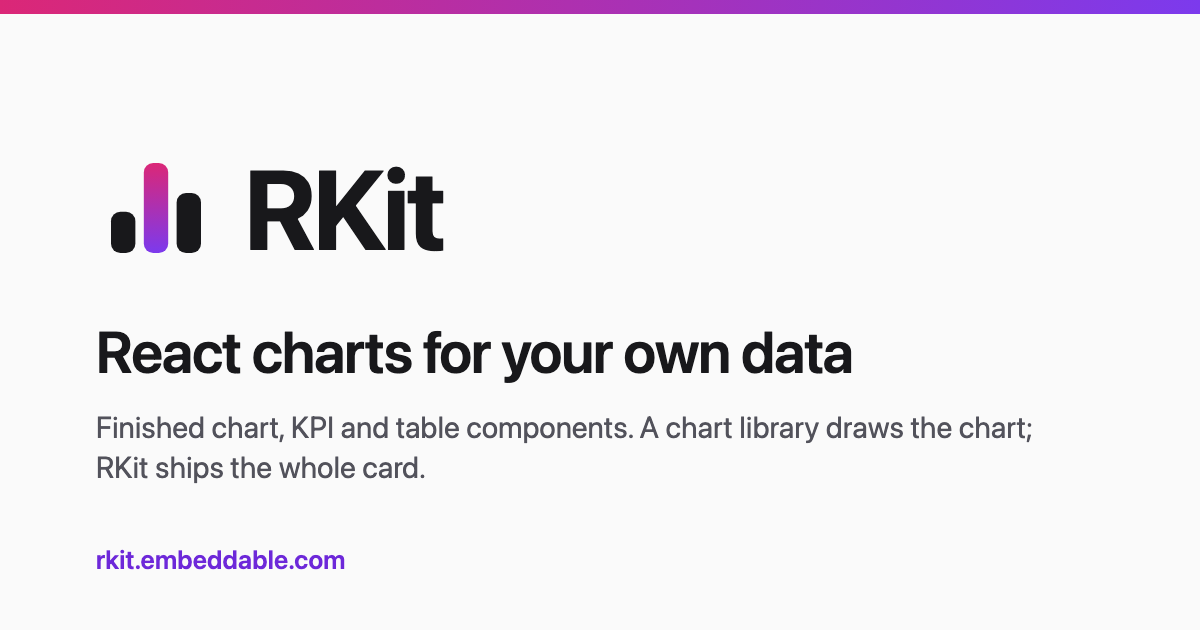
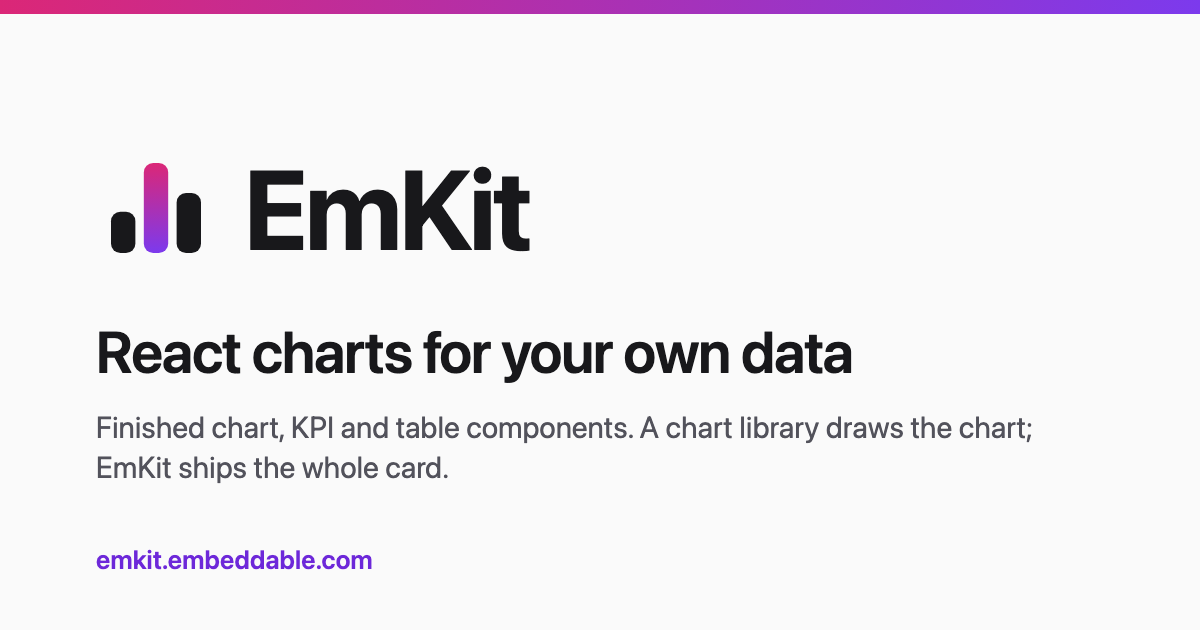
Rename RKit to EmKit (npm package em-kit)
The name is EmKit, the package em-kit and the site emkit.embeddable.com.
"em" is the prefix of every theme variable (--em-*) and short for
Embeddable. RKit is dropped because rkit on npm is someone else's React
UI kit.

- BRAND in site/config.ts, package.json, the provider's error message,
  storage keys, the share image (its source is scripts/og-image.html)
- README, ROADMAP, PLAN, UPSTREAM and the site standards; PROGRESS.md
  keeps the old name in rows that record what was true at the time

Changed region(s): [[0.2158, 0.2714, 0.4625, 0.4222], [0.0617, 0.7238, 0.37, 0.7841], [0.0617, 0.8746, 0.3083, 0.9048]]

diff --git a/scripts/og-image.html b/scripts/og-image.html
@@ -1,0 +1,23 @@
+<!doctype html>
+<!-- The source of site/public/og.png (1200 x 630), the image shown when a link to the site is shared.
+     To remake it: open this file in headless Chrome with --window-size=1200,630 --screenshot=site/public/og.png -->
+<html><head><meta charset="utf-8"><style>
+  html,body{margin:0;width:1200px;height:630px;overflow:hidden}
+  body{background:#fafafa;font-family:-apple-system,BlinkMacSystemFont,"Helvetica Neue",Arial,sans-serif;color:#18181b;display:flex;flex-direction:column;justify-content:center;padding:0 96px;box-sizing:border-box;position:relative}
+  .brand{display:flex;align-items:center;gap:28px}
+  .brand svg{width:120px;height:120px}
+  .name{font-size:112px;font-weight:700;letter-spacing:-3px}
+  .title{margin-top:44px;font-size:58px;font-weight:600;letter-spacing:-1px;line-height:1.15;max-width:960px}
+  .line{margin-top:22px;font-size:30px;color:#52525b;max-width:960px;line-height:1.35}
+  .url{position:absolute;left:96px;bottom:56px;font-size:26px;color:#6d28d9;font-weight:600}
+  .bar{position:absolute;left:0;top:0;width:100%;height:14px;background:linear-gradient(90deg,#db2777,#7c3aed)}
+</style></head><body>
+<div class="bar"></div>
+<div class="brand">
+<svg viewBox="0 0 32 32"><defs><linearGradient id="g" x1="0" y1="0" x2="0" y2="1"><stop offset="0" stop-color="#db2777"/><stop offset="1" stop-color="#7c3aed"/></linearGradient></defs>
+<rect fill="#18181b" x="4" y="17" width="6.5" height="11" rx="2.5"/><rect fill="url(#g)" x="12.75" y="4" width="6.5" height="24" rx="2.5"/><rect fill="#18181b" x="21.5" y="12" width="6.5" height="16" rx="2.5"/></svg>
+<div class="name">EmKit</div></div>
+<div class="title">React charts for your own data</div>
+<div class="line">Finished chart, KPI and table components. A chart library draws the chart; EmKit ships the whole card.</div>
+<div class="url">emkit.embeddable.com</div>
+</body></html>

diff --git a/site/index.html b/site/index.html
@@ -3,18 +3,18 @@
   <head>
     <meta charset="UTF-8" />
     <meta name="viewport" content="width=device-width, initial-scale=1.0" />
-    <meta name="description" content="Finished React chart components for teams that already have a data layer. A chart library draws the chart; RKit ships the whole card." />
-    <meta property="og:site_name" content="RKit" />
+    <meta name="description" content="Finished React chart components for teams that already have a data layer. A chart library draws the chart; EmKit ships the whole card." />
+    <meta property="og:site_name" content="EmKit" />
     <meta property="og:type" content="website" />
-    <meta property="og:title" content="RKit · React charts for your own data" />
-    <meta property="og:description" content="Finished React chart components for teams that already have a data layer. A chart library draws the chart; RKit ships the whole card." />
+    <meta property="og:title" content="EmKit · React charts for your own data" />
+    <meta property="og:description" content="Finished React chart components for teams that already have a data layer. A chart library draws the chart; EmKit ships the whole card." />
     <link rel="icon" href="/favicon.ico" sizes="32x32" />
     <link rel="icon" href="/favicon.svg" type="image/svg+xml" />
     <link rel="preconnect" href="https://fonts.googleapis.com" />
     <link rel="preconnect" href="https://fonts.gstatic.com" crossorigin />
     <link rel="alternate" type="text/markdown" href="/index.md" />
     <link rel="describedby" type="text/plain" href="/llms.txt" />
-    <title>RKit · React charts for your own data</title>
+    <title>EmKit · React charts for your own data</title>
   </head>
   <body>
     <div id="root"></div>

diff --git a/site/content/pages.ts b/site/content/pages.ts
@@ -40,7 +40,7 @@ const landingMarkdown = () =>
 const examplesMarkdown = () =>
   [
     '# Dashboard example',
-    'A complete sales dashboard built only from RKit components: KPIs, a time series, a breakdown by region and a table, sharing one set of filters. This is the whole file; the dashboard runs in the browser at [/examples](/examples).',
+    'A complete sales dashboard built only from EmKit components: KPIs, a time series, a breakdown by region and a table, sharing one set of filters. This is the whole file; the dashboard runs in the browser at [/examples](/examples).',
     '```tsx title="Dashboard.tsx"\n' + dashboardSource + '\n```',
     'There is a second example, [an AI chat that answers with charts](/examples/ai-chat.md), and a guide to [charts from a model](/docs/charts-from-a-model.md).',
   ].join('\n\n');
@@ -85,7 +85,7 @@ export const sitePages = (): SitePage[] => [
   {
     path: '/examples',
     title: 'Dashboard example',
-    description: 'A complete sales dashboard built from RKit components, with the full source.',
+    description: 'A complete sales dashboard built from EmKit components, with the full source.',
     section: 'Examples',
     markdown: examplesMarkdown,
   },

diff --git a/site/config.ts b/site/config.ts
@@ -1,9 +1,9 @@
-// Display name decided 2026-11-11 (R Kit, short for Remarkable Kit, at rkit.embeddable.com).
-// The npm package name is still open (ROADMAP.md, Phase 5); code samples use packageName.
+// Name decided 2026-11-17: EmKit, npm package em-kit, at emkit.embeddable.com.
+// "em" is the prefix of every theme variable (--em-*) and short for Embeddable.
 export const BRAND = {
-  name: 'RKit',
-  packageName: 'rkit',
+  name: 'EmKit',
+  packageName: 'em-kit',
   // Where the site will be published: used for canonical links, llms.txt and the sitemap.
-  url: 'https://rkit.embeddable.com',
-  tagline: 'Finished React chart components for teams that already have a data layer. A chart library draws the chart; RKit ships the whole card.',
+  url: 'https://emkit.embeddable.com',
+  tagline: 'Finished React chart components for teams that already have a data layer. A chart library draws the chart; EmKit ships the whole card.',
 };

diff --git a/tests/build.test.ts b/tests/build.test.ts
@@ -11,7 +11,7 @@ import { renderRoute } from '../site/prerender';
 // The static build's page HTML: the real content is in the server render and
 // the head is the page's own. (npm run site:check runs the same over every page.)
 const template =
-  '<!doctype html><html><head><title>RKit · default</title><meta name="description" content="x" /><meta property="og:title" content="x" /></head><body><div id="root"></div></body></html>';
+  '<!doctype html><html><head><title>EmKit · default</title><meta name="description" content="x" /><meta property="og:title" content="x" /></head><body><div id="root"></div></body></html>';
 const render = (path: string) => applyHead(template, headFor(path)).replace('<div id="root"></div>', `<div id="root">${renderRoute(path)}</div>`);
 const text = (html: string) => html.replace(/<[^>]*>/g, '').replace(/\s+/g, ' ');
 

diff --git a/site/content/guides.ts b/site/content/guides.ts
@@ -391,7 +391,7 @@ export const guides: Guide[] = [
       { md: 'Each heading is what you see on screen.' },
       { h2: 'An error says components must be rendered inside ChartsProvider' },
       {
-        md: 'The full message is `RKit components must be rendered inside <ChartsProvider>.` A chart is being rendered outside the provider. Wrap the app in it, as in [step 2 of the quick start](/docs/quick-start#provider).',
+        md: 'The full message is `EmKit components must be rendered inside <ChartsProvider>.` A chart is being rendered outside the provider. Wrap the app in it, as in [step 2 of the quick start](/docs/quick-start#provider).',
       },
       { h2: 'An error says createContext only works in Client Components', id: 'nextjs' },
       {

diff --git a/site/content/components.ts b/site/content/components.ts
@@ -485,7 +485,7 @@ const keyboardMarkdown = (entry: ChartEntry) => {
 // ---------------------------------------------------------------------------
 
 /** What a chart throws when it renders outside the provider (`useTheme` in src/runtime/react.ts). */
-export const PROVIDER_ERROR = 'RKit components must be rendered inside <ChartsProvider>.';
+export const PROVIDER_ERROR = 'EmKit components must be rendered inside <ChartsProvider>.';
 
 /** The provider, and what is on screen without it. */
 export const PROVIDER_NOTE = `Wrap your app, or the part with charts, in \`<ChartsProvider>\` once: without it every chart throws \`${PROVIDER_ERROR}\``;

diff --git a/site/settings.tsx b/site/settings.tsx
@@ -59,8 +59,8 @@ requestChartFonts();
 // The theme and the data set a visitor chose are remembered between visits.
 // The language is kept only for the browser session: the docs are written in
 // English, so a new visit opens in English, whatever was tried last time.
-export const SETTINGS_STORAGE_KEY = 'rkit-site-settings';
-export const LANGUAGE_STORAGE_KEY = 'rkit-site-language';
+export const SETTINGS_STORAGE_KEY = 'emkit-site-settings';
+export const LANGUAGE_STORAGE_KEY = 'emkit-site-language';
 
 const read = (storage: () => Storage, key: string): Record<string, unknown> => {
   try {

diff --git a/site/agent-plugin.ts b/site/agent-plugin.ts
@@ -87,7 +87,7 @@ export const withDom = async <T>(run: () => Promise<T> | T): Promise<T> => {
 const agentExtension = /\.(md|txt|xml)$/;
 
 export const agentPlugin = (options: { origin?: string } = {}): Plugin => ({
-  name: 'rkit-agent-endpoints',
+  name: 'emkit-agent-endpoints',
   configureServer(server: ViteDevServer) {
     // No return: registered before Vite's own middlewares, so it sees every request first.
     server.middlewares.use((req: IncomingMessage, res: ServerResponse, next: (err?: unknown) => void) => {

diff --git a/tests/guides.test.tsx b/tests/guides.test.tsx
@@ -335,7 +335,7 @@ describe('documented behaviour', () => {
   };
 
   it('throws the documented error outside the provider', () => {
-    const message = 'RKit components must be rendered inside <ChartsProvider>.';
+    const message = 'EmKit components must be rendered inside <ChartsProvider>.';
     expect(guideMarkdown(guideOf('troubleshooting'))).toContain(message);
     expect(() => renderToString(<BarChartStacked xAxis={month} groupBy={month} measure={revenue} results={results([])} />)).toThrow(message);
   });

diff --git a/src/theme.ts b/src/theme.ts
@@ -1,6 +1,6 @@
 import { ThemeStyles } from './generated/theme/styles/styles.types';
 
-// RKit's own look, layered over the upstream theme: a white card with a
+// EmKit's own look, layered over the upstream theme: a white card with a
 // hairline border, a faint grid and rounder bars. The colours are upstream's
 // (the "Default" palette on embeddable.com), so nothing here sets them. It
 // lives here, outside the generated sources, so a sync from upstream cannot

diff --git a/tests/served.test.ts b/tests/served.test.ts
@@ -15,7 +15,7 @@ import { checkServed } from '../scripts/served-check.mjs';
 
 const built = join(__dirname, '../dist-site');
 const hasBuild = existsSync(join(built, 'llms.txt'));
-const copy = hasBuild ? mkdtempSync(join(tmpdir(), 'rkit-site-')) : '';
+const copy = hasBuild ? mkdtempSync(join(tmpdir(), 'emkit-site-')) : '';
 if (hasBuild) cpSync(built, copy, { recursive: true });
 afterAll(() => {
   if (copy) rmSync(copy, { recursive: true, force: true });
